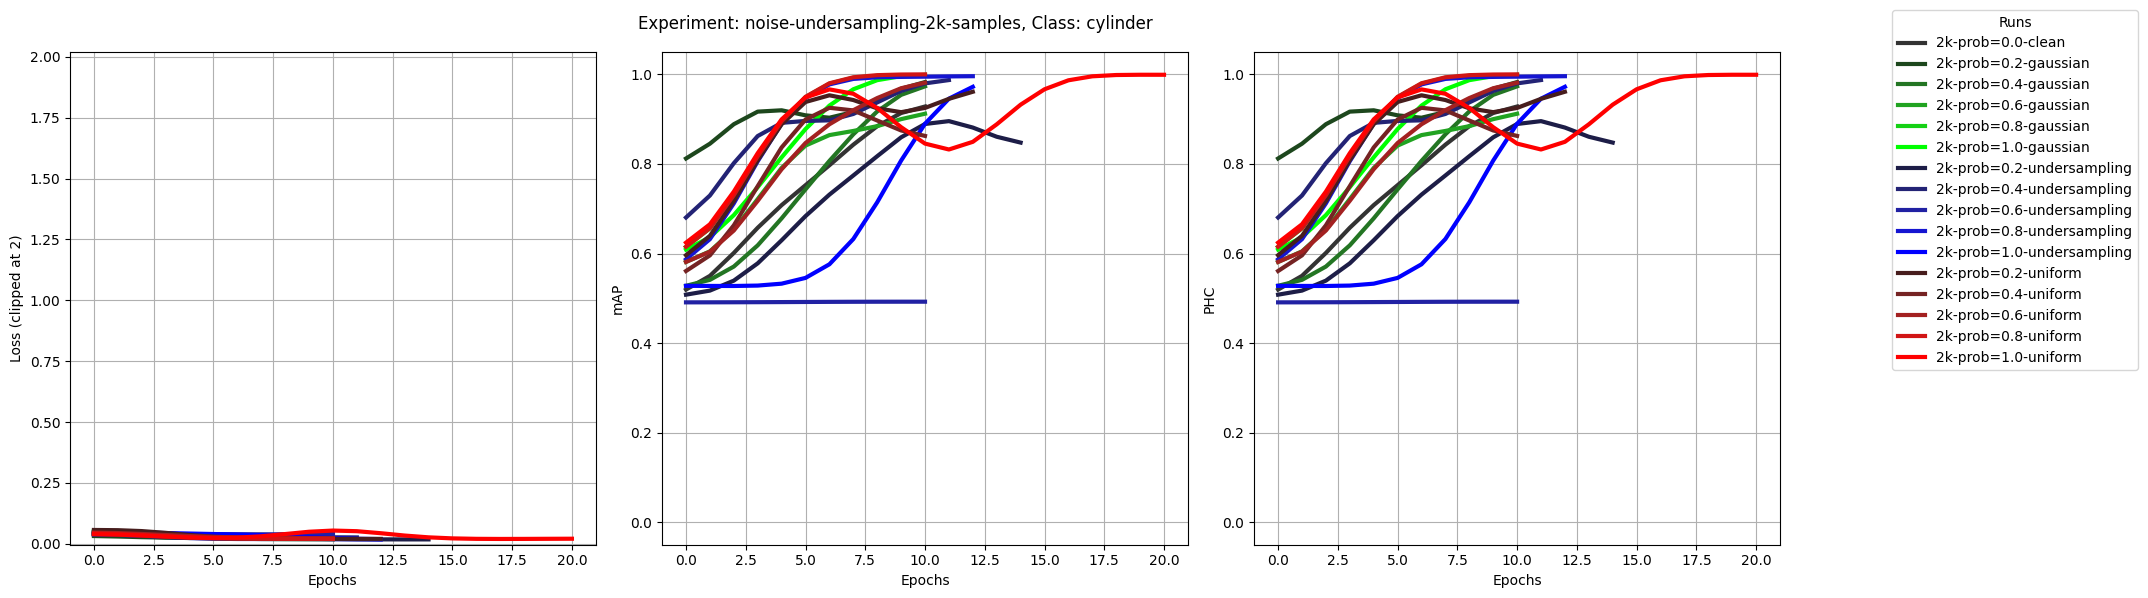
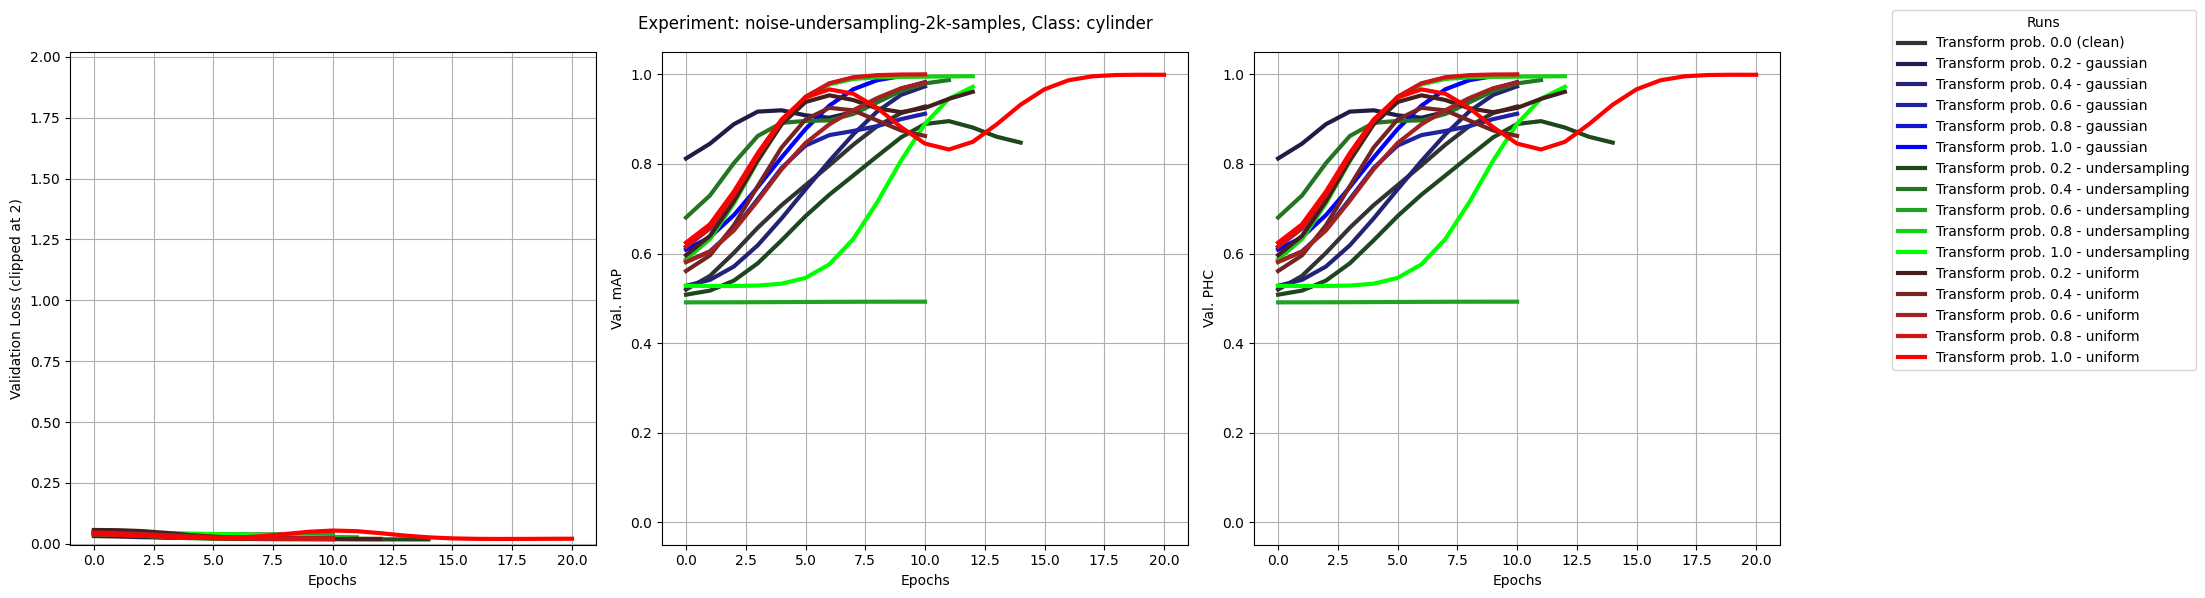
Updated deepseek-r1-graph-script.py, now labels look more readable...

diff --git a/logs/2d-graphs/deepseek-r1-graph-script.py b/logs/2d-graphs/deepseek-r1-graph-script.py
@@ -10,13 +10,13 @@ import colorsys
 from scipy.ndimage.filters import gaussian_filter1d
 
 # Configuration
-#EXPERIMENT_GROUPS = ['rotations-2k-samples', 'noise-undersampling-2k-samples']
-EXPERIMENT_GROUPS = ['pointnext-rotations-2k-samples']
+EXPERIMENT_GROUPS = ['rotations-2k-samples', 'noise-undersampling-2k-samples', 'PointNeXt_XXL-rotations-2k-samples']
+#EXPERIMENT_GROUPS = ['PointNeXt_XXL-rotations-2k-samples']
 '''
 CLASSES = ['astroid', 'citrus', 'cylinder', 'egg_keplero', 'geometric_petal', 
            'lemniscate', 'm_convexities', 'mouth_curve', 'revolution', 'square']
 '''
-CLASSES = ['m_convexities']
+CLASSES = ['astroid', 'citrus', 'cylinder', 'egg_keplero', 'geometric_petal', 'lemniscate', ]
 BASE_DIR = '../../logs'
 CLIP_LOSS_AT = 2  # Clip loss at this value
 #USE_EPOCHS = True  # Use epochs instead of steps for the x-axis
@@ -25,7 +25,7 @@ SMOOTH_SIGMA = 2
 def parse_run_name(run_name, experiment_group):
 	parts = run_name.split('-')
 	if 'noise-undersampling' in experiment_group:
-		class_name = parts[4]
+		#class_name = parts[4]
 		transform_prob = None
 		transform_type = None
 		for i in range(len(parts)):
@@ -33,13 +33,14 @@ def parse_run_name(run_name, experiment_group):
 				transform_prob = float(parts[i+1])
 			if parts[i] == 'transform' and i+1 < len(parts):
 				transform_type = parts[i+1]
-		friendly_name = f"{class_name}-prob={transform_prob}-{transform_type}"
+		#friendly_name = f"{class_name}-prob={transform_prob}-{transform_type}"
+		friendly_name = f"Transform prob. {transform_prob} - {transform_type}" if transform_prob > 0.0 else f"Transform prob. {transform_prob} (clean)"
 		params = {
 			'prob': transform_prob,
 			'type': transform_type
 		}
-	elif 'rotations' in experiment_group:
-		class_name = parts[2]
+	elif 'PointNeXt_XXL' in experiment_group:
+		# e.g. symmetria-ablation-PointNeXt_XXL-rotations-2k-samples-lemniscate-2000-rotprob-0.4-rotx-true-roty-true-rotz-true
 		rot_prob = None
 		axes = []
 		for i in range(len(parts)):
@@ -49,20 +50,48 @@ def parse_run_name(run_name, experiment_group):
 				axis = parts[i]
 				state = parts[i+1]
 				if state == 'true':
-					axes.append(axis)
-		friendly_name = f"{class_name}-prob={rot_prob}-{'-'.join(axes)}" if axes else f"{class_name}-prob={rot_prob}"
+					axes.append(axis.replace('rot', ''))
+					#print(f'axis: {axis.replace("rot", "")}, state: {state}, axes: {axes}')
+		friendly_name = f"Rotation prob. {rot_prob} - axes: {', '.join(axes)}" if axes else f"Rotation prob. {rot_prob} (clean)"
 		params = {
 			'prob': rot_prob,
 			'axes': axes
 		}
+	elif 'rotations' in experiment_group:
+		# e.g. symmetria-ablation-rotations-2k-samples-astroid-2000-rotprob-0.8-rotx-true-roty-true-rotz-false
+		#class_name = parts[2]
+		rot_prob = None
+		axes = []
+		for i in range(len(parts)):
+			if parts[i] == 'rotprob':
+				rot_prob = float(parts[i+1])
+			if parts[i].startswith('rot') and parts[i] != 'rotprob' and i+1 < len(parts):
+				axis = parts[i]
+				state = parts[i+1]
+				if state == 'true':
+					axes.append(axis.replace('rot', ''))
+		#friendly_name = f"{class_name}-prob={rot_prob}-{'-'.join(axes)}" if axes else f"{class_name}-prob={rot_prob}"
+		friendly_name = f"Rotation prob. {rot_prob} - axes: {','.join(axes)}" if axes else f"Rotation prob. {rot_prob} (clean)"
+		params = {
+			'prob': rot_prob,
+			'axes': axes
+		}
+	else:
+		friendly_name = run_name
+		params = {}
 	return friendly_name, params
 
 def get_color(experiment_group, params):
-	if 'rotations' in experiment_group:
+	if 'PointNeXt_XXL' in experiment_group:
 		prob		= params['prob']
 		axes		= params['axes']
 		color_var	= axes
-		possibilities	= [['rotx'], ['rotx', 'roty'], ['rotx', 'roty', 'rotz']]
+		variations	= [['x'], ['x', 'y'], ['x', 'y', 'z']]
+	elif 'rotations' in experiment_group:
+		prob		= params['prob']
+		axes		= params['axes']
+		color_var	= axes
+		variations	= [['x'], ['x', 'y'], ['x', 'y', 'z']]
 		'''
 		if prob == 0.0:
 			return (0.5, 0.5, 0.5)  # Gray for baseline
@@ -84,7 +113,7 @@ def get_color(experiment_group, params):
 		prob		= params['prob']
 		transform_type	= params['type']
 		color_var	= transform_type
-		possibilities	= ['gaussian', 'undersampling', 'uniform']
+		variations	= ['undersampling', 'gaussian', 'uniform']
 		'''
 		if transform_type == 'clean':
 			return (0.5, 0.5, 0.5)  # Gray
@@ -109,11 +138,11 @@ def get_color(experiment_group, params):
 	if prob == 0.0:
 		return (0.2, 0.2, 0.2)  # Gray
 	else:
-		if color_var == possibilities[0]:
+		if color_var == variations[0]:
 			hue = 120  # Green
-		elif color_var == possibilities[1]:
+		elif color_var == variations[1]:
 			hue = 240  # Blue
-		elif color_var == possibilities[2]:
+		elif color_var == variations[2]:
 			hue = 0  # Red
 		else:
 			hue = 180  # Cyan for others
@@ -167,9 +196,9 @@ def process_class(experiment_group, class_name, clip_loss_at=-1, smooth_sigma=-1
 		#plt.ylim(-0.004*max_y_val, max_y_val + 0.01*max_y_val)
 	'''
 
-	ax_loss.set_ylabel('Loss'+ f' (clipped at {CLIP_LOSS_AT})' if CLIP_LOSS_AT > 0 else '')
-	ax_map.set_ylabel('mAP')
-	ax_phc.set_ylabel('PHC')
+	ax_loss.set_ylabel('Validation Loss'+ f' (clipped at {CLIP_LOSS_AT})' if CLIP_LOSS_AT > 0 else '')
+	ax_map.set_ylabel('Val. mAP')
+	ax_phc.set_ylabel('Val. PHC')
 
 	handles, labels = [], []
 
